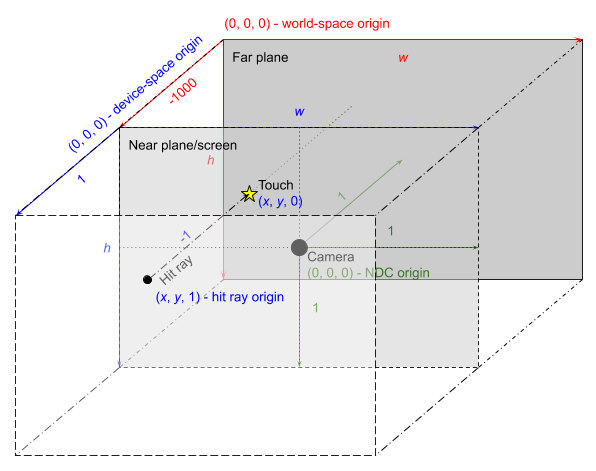
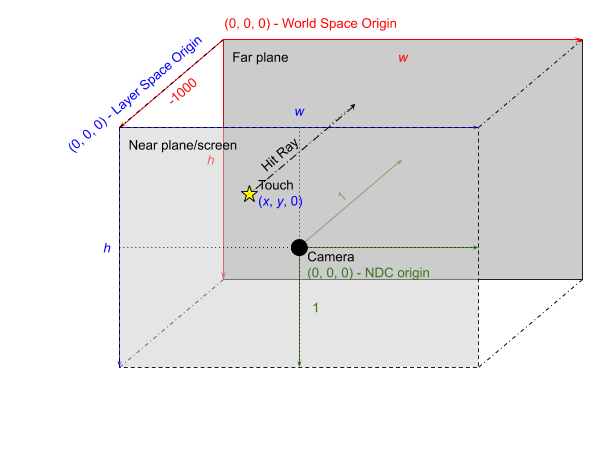
[scenic][docs] Add coordinate space documentation
Commit-Queue: Mikael Pessa <mikaelpessa@google.com>
Testability-Review: Jaeheon Yi <jaeheon@google.com>
Testability-Review: David Worsham <dworsham@google.com>

diff --git a/docs/concepts/graphics/scenic/view_bounds.md b/docs/concepts/graphics/scenic/view_bounds.md
@@ -19,17 +19,31 @@
 
 # Introduction
 
-This is a guide that explains how view bounds and clipping work in Scenic. This guide explains how to set view bounds, how to interpret what the commands are doing, and the effects that the view bounds have on existing Scenic subsystems.
+This is a guide that explains how view bounds and clipping work in Scenic. This
+guide explains how to set view bounds, how to interpret what the commands are
+doing, and the effects that the view bounds have on existing Scenic subsystems.
 
 # Concepts
 
 ## Setting View Bounds {#setting-view-bounds}
 
-An embedder must create a pair of tokens for a view and view holder, and must also allocate space within its view for the embedded view holder to be laid out. This is done by setting the bounds on the view holder of the embedded view. To set the view bounds on a view, you have to call `SetViewProperties` on its respective ViewHolder. You can call `SetViewProperties` either before or after the view itself is created and linked to the ViewHolder, so you do not have to worry about the order in which you do your setup. The bounds themselves are set by specifying their minimum and maximum points (xyz) in 3D space.
+An embedder must create a pair of tokens for a view and view holder, and must
+also allocate space within its view for the embedded view holder to be laid out.
+This is done by setting the bounds on the view holder of the embedded view. To
+set the view bounds on a view, you have to call `SetViewProperties` on its
+respective ViewHolder. You can call `SetViewProperties` either before or after
+the view itself is created and linked to the ViewHolder, so you do not have to
+worry about the order in which you do your setup. The bounds themselves are set
+by specifying their minimum and maximum points (xyz) in 3D space.
 
 ### Bound Extent and Insets {#bound-extent-and-insets}
 
-There are four values needed to set a view's bounds properly, `bounds_min`, `bounds_max`, `inset_min` and `inset_max`. The minimum and maximum bounds represent the minimum and maximum coordinate points of an axis-aligned bounding box. The minimum and maximum insets specify the distances between the view’s bounding box and that of its parent. So the final extent of a view's bounds can be defined with the following formula:
+There are four values needed to set a view's bounds properly, `bounds_min`,
+`bounds_max`, `inset_min` and `inset_max`. The minimum and maximum bounds
+represent the minimum and maximum coordinate points of an axis-aligned bounding
+box. The minimum and maximum insets specify the distances between the view’s
+bounding box and that of its parent. So the final extent of a view's bounds can
+be defined with the following formula:
 
 ```cpp
 { bounds_min + inset_min, bounds_max - inset_max}
@@ -52,13 +66,120 @@ view_holder.SetViewProperties({.bounding_box{.min{0, 0, -200}, .max{500, 500, 0}
                                .inset_from_max{20, 30, 0}});
 ```
 
-The above code creates a View and ViewHolder pair whose bounds start at (20,&nbsp;30,&nbsp;-200) and extend out to (480,&nbsp;470,&nbsp;0). The bounds themselves are always axis-aligned.
+The above code creates a View and ViewHolder pair whose bounds start at `(20,
+30, -200)` and extend out to `(480, 470, 0)`. The bounds themselves are always
+axis-aligned.
 
 ## Coordinate System {#coordinate-system}
 
-View bounds are specified in local coordinates, and their world-space position is determined by the global transform of the view node.
+The 3D system of Scenic consists of a number of coordinate spaces. They can
+roughly be categorized as: Layer Space, World Space and Local space. A spatial
+point has independent coordinates in each coordinate system. A transformation
+matrix describes how to map a spatial point between two coordinate spaces; the
+point's coordinates in system A is multipled by a transformation matrix to
+obtain its coordinates in system B (or the matrix's inverse for the opposite
+direction).
 
-Input coordinates originate from input device space, which usually corresponds to pixel coordinates with an origin at the upper left of the screen. The input system works with the compositor and camera to map from input device coordinates to world space by way of [Ray Casting and Hit Testing](#ray-casting-and-hit-testing).
+All Scenic coordinate systems are right handed.
+
+![Coordinate Spaces Diagram](meta/coordinate_spaces.svg)
+
+#### Layer Space (Screen Space)
+
+Layer Space is a 2D coordinate space corresponding to an area on the screen. 
+- Origin: Top left corner, X-axis pointing to the right and Y-axis pointing down. Axis-aligned 
+    with display. 
+- Dimensions: Typically equal to the display dimensions (a full screen layer).
+
+#### Camera Transform
+
+The camera transform matrix transforms a coordinate from World Space to Layer
+Space.
+
+This transformation actually consists of a few steps.
+
+First we transform from World Space to an intermediate space known as Camera
+Space. This is a normalized three dimensional coordinate system from -1 to 1 in
+every direction. This coordinate system is right handed, with the X-axis
+pointing to the right, Y-axis pointing down and Z-axis pointing “into the
+screen”. The camera's location and direction in World Space define the
+transform.
+
+Next the projection transformation matrix decides how to flatten the Camera
+Space into the two dimensional space of Layer Space. This transformation
+dictates the type of projection to perform: either orthographic or perspective
+projection. The common choice is orthographic, in which the world is essentially
+flattened in the Z-direction while maintaining the X- and Y-axes.
+
+Finally, a clip space transform might be applied that scales and translates the
+2D space in order to enable magnification.[^1]
+
+[^1]: A better solution for handling magnification would have been to simply insert a scale node into the graph and then manipulate that directly. This approach caused some issues with applications being confused about how big they are and how much memory they should allocate (because metrics events are issued with scaling), and the clip space transform was introduced as a workaround. And because input is currently handled in camera space, this comes with the unfortunate side effect that swipe gestures can appear smaller under magnification.
+
+#### World Space
+
+World Space is where the Scene Graph's root view is positioned, and also where
+the camera is positioned. The entire Scene Graph is thus embedded in this space,
+and how we relate Camera Space to the scene is defined in this space.
+
+#### Transform Nodes
+
+Each node in the Scene Graph has a Local Space associated with it. This space is
+defined by that node's transformation matrix, which transforms a coordinate from
+the node's Local Space to the Local Space of its parent. This matrix is
+dependent on the position, rotation and scale of the node as defined by its
+parent.
+
+The Local Space of each node can be related to World Space by multiplying every
+transform matrix up the Scene Graph, terminating at the Scene Graph's root
+(whose transformation matrix is the transform from the root's Local Space to
+World Space). This multiplied matrix is known as the node's "global transform".
+
+The transform matrix of a node is the combination of the translation, scale and
+rotation of that node. Application order is scale, then rotation, then
+translation. Because each of these values can be written as their own
+transformation matrices, and the order of multiplication for matrices matter, we
+can then write the full transform as:
+
+```
+parent_local_point = translation matrix * rotation_matrix * scale_matrix * local_point
+```
+
+### Example
+
+We have a Scene Graph made up of two nodes, Node1 and Node2.
+Node1 is a child of Node2, and P1 is a point in Node1's Local Space,
+Node1 and Node2 both have a rotation, scale and translation.
+To get the World Space coordinates of P1 you then combine, in order, the transforms of all parents:
+```
+p1_world_position = (translation_node2 * rotation_node2 * scale_node2) * (translation_node1 * rotation_node1 * scale_node1) * p1_local_position
+```
+
+#### Local Space (Scenic View Space) [^2]
+
+Since not every Session has full knowledge of the full Scene Graph they instead
+all act in the local coordinate space of their View. This is the space a Session
+defines the transforms of its nodes in and the space that input coordinates are
+delivered in.
+
+-   Origin: "Back corner" of View. The Z dimension of the View is usually set up
+    as -1000 to 0 (as a side effect of starting out as a left handed coordinate
+    system which only later became right handed), so the View's origin is at the
+    maximal Z value, but at minimal X and Y values. Usually axis-aligned with
+    world space.
+
+[^2]: Not to be confused with the View Space from the common Model-View-Projection notation of 3D graphics, which we here called Camera Space.
+
+### View Bounds
+
+View bounds are specified in local coordinates, and their World Space position
+is determined by the global transform of the view node.
+
+Input coordinates originate from Layer Space, which usually corresponds to pixel
+coordinates with an origin at the upper left of the screen. The input system
+works with the compositor and camera to map from input device coordinates to
+World Space by way of
+[Ray Casting and Hit Testing](#ray-casting-and-hit-testing).
 
 ### Example {#example-2}
 
@@ -77,17 +198,30 @@ view_holder.SetTranslation(100, 100, 200);
 view_holder.SetViewProperties({.bounding_box{.max{500, 500, 200}}});
 ```
 
-In the above code, the view bounds in local space have a min and max value of (0,&nbsp;0,&nbsp;0) and (500,&nbsp;500,&nbsp;200), but since the parent node is translated by (100,&nbsp;100,&nbsp;200) the view bounds in world space will actually have a world space bounds min and max of (100,&nbsp;100,&nbsp;200) and (600,&nbsp;600,&nbsp;400) respectively. However, the view itself doesn’t see these world-space bounds, and only deals with its bounds in its own local space.
+In the above code, the view bounds in Local Space have a min and max value of
+`(0, 0, 0)` and `(500, 500, 200)`, but since the parent node is translated by
+`(100, 100, 200)` the view bounds in World Space will actually have a World
+Space bounds min and max of `(100, 100, 200)` and `(600, 600, 400)`
+respectively. However, the view itself doesn’t see these world-space bounds, and
+only deals with its bounds in its own Local Space.
 
 ## Centering Geometry {#centering-geometry}
 
-The center of mass for a piece of geometry such as a `RoundedRectangle` is its center, whereas for a view, the center of mass for its bounds is its minimum coordinate. This means that if a view and a rounded-rectangle that is a child of that view both have the same translation, the center of the rounded-rectangle will render at the minimum-coordinate of the view’s bounds. To fix this, apply another translation on the shape node to move it to the center of the view’s bounds.
+The center of mass for a piece of geometry such as a `RoundedRectangle` is its
+center, whereas for a view, the center of mass for its bounds is its minimum
+coordinate. This means that if a view and a rounded-rectangle that is a child of
+that view both have the same translation, the center of the rounded-rectangle
+will render at the minimum-coordinate of the view’s bounds. To fix this, apply
+another translation on the shape node to move it to the center of the view’s
+bounds.
 
 ![Centering Geometry Diagram](meta/scenic_centering_geometry.png)
 
 ## Debug Wireframe Rendering {#debug-wireframe-rendering}
 
-To help with debugging view bounds, you can render the edges of the bounds in wire-frame mode to see where exactly your view is located in world space. This functionality can be applied per-view using a Scenic command:
+To help with debugging view bounds, you can render the edges of the bounds in
+wire-frame mode to see where exactly your view is located in World Space. This
+functionality can be applied per-view using a Scenic command:
 
 ```cpp
 // This command turns on wireframe rendering of the specified
@@ -98,7 +232,10 @@ struct SetEnableDebugViewBoundsCmd {
 };
 ```
 
-This command takes in a `view id`, and a `bool` to toggle whether or not the view bounds should be displayed. The default display color is white, but you can choose different colors by running the `SetViewHolderBoundsColorCmd` on the specified view holder:
+This command takes in a `view id`, and a `bool` to toggle whether or not the
+view bounds should be displayed. The default display color is white, but you can
+choose different colors by running the `SetViewHolderBoundsColorCmd` on the
+specified view holder:
 
 ```cpp
 // This command determines the color to be set on a view holder’s debug
@@ -111,48 +248,88 @@ struct SetViewHolderBoundsColorCmd {
 
 ## Ray Casting and Hit Testing {#ray-casting-and-hit-testing}
 
-Hit testing by ray casting maps input device coordinates to scene geometry and coordinates. Ultimately, inputs are delivered to views with view coordinates. As described in the [Coordinate System](#coordinate-system) section, view coordinates are determined by the global transform of the view node, which maps from world space to view coordinates.
+Hit testing by ray casting maps Layer Space coordinates to scene geometry and
+coordinates. Ultimately, inputs are delivered to views with View-local
+coordinates. As described in the [Coordinate System](#coordinate-system)
+section, View-local coordinates are determined by the global transform of the
+View node, which maps from World Space to Local Space.
 
 ### The Hit Ray {#the-hit-ray}
 
-The conversion from input device space to world space involves the input system, compositor layer, and camera.
+When injecting touch input events we need to know two things: 1. Which client(s)
+are we sending the input event to? 2. What is the coordinate of the input event
+in the client’s local coordinate system?
+
+The conversion of input coordinates from Layer Space to World Space involves the
+input system, compositor layer, and camera.
 
 ![Input Coordinate Spaces](meta/input_coordinate_spaces.png)
 
-The original input coordinate is a two-dimensional coordinate in screen pixels. The input system and compositor agree on a convention, illustrated above as device coordinates in 3 dimensions (blue), where the viewing volume has depth 1, the near plane is at z = 0, and the far plane is at z = -1. With this in mind, the input system constructs a hit ray with its origin at the touch coordinates at a distance of 1 behind the camera, z = 1, and direction (0,&nbsp;0,&nbsp;-1), towards the scene.
+To find which client we are sending the event to we perform a hit test. This is
+done by projecting a ray (in World Space) into the scene to see what objects it
+intersects and then sending the input to the closest hit object. When we hit
+something we note where in the scene that hit point is. We then compute the
+World Space to Local Space transform of the owning view of the hit object, and
+use that to send the input event to the client in their local coordinates.
 
-The input device space as described here is a left-handed coordinate system, a holdover from when Scenic was left-handed. Future work may adjust the z convention of input device space to match NDC or the viewing volume, as a right-handed coordinate system, and adjust the hit ray to originate at the near plane, z = 0.
+The original input coordinate is a two-dimensional coordinate in screen pixels.
+The input system and compositor agree on a convention, illustrated above as
+device coordinates in 3 dimensions (blue), where the viewing volume has depth 1,
+the near plane is at z = 0, and the far plane is at z = -1. With this in mind,
+the input system constructs a hit ray by computing the World Space coordinates
+of the touch coordinate (by inverting the camera transform), sets those as the
+origin, with Z at 0 and direction `(0, 0, 1)`, towards the scene.
 
-The compositor layer transforms this ray into NDC (green) and then applies the inverse camera transforms (clip-space, projection, and camera positioning) to project the ray into the scene (world coordinates, red). The above illustration reflects the orthographic camera coded into Scenic, with scene origin at the upper left of the far plane, viewing volume width and height reflecting device dimensions, and viewing depth 1000, such that the near plane is at z = -1000. (In actuality, the orthographic camera itself is positioned at z = -1010, but this does not affect the math in an orthographic projection.)
-
-In world space then, the hit ray described above originates at (_x_,&nbsp;_y_,&nbsp;-2000) with direction (0,&nbsp;0,&nbsp;1000).
+In World Space then, the hit ray described above originates at `(x, y, -1000)`
+with direction `(0, 0, 1000)`.
 
 ### Rules {#rules}
 
-When performing hit tests, Scenic runs tests against the bounds of a `ViewNode` before determining whether the ray should continue checking children of that node.
+When performing hit tests, Scenic runs tests against the bounds of a `ViewNode`
+before determining whether the ray should continue checking children of that
+node.
 
-* If a ray completely misses a view’s bounding box, nothing that is a child of that   view will be hit.
+*   If a ray completely misses a view’s bounding box, nothing that is a child of
+    that view will be hit.
 
-* If a ray does intersect a bounding box, only geometry that exists within the range of the ray’s entrance and exit from the bounding box will be considered for a hit. For example, clipped geometry cannot be hit.
+*   If a ray does intersect a bounding box, only geometry that exists within the
+    range of the ray’s entrance and exit from the bounding box will be
+    considered for a hit. For example, clipped geometry cannot be hit.
 
-If you forget to set the bounds for a view, any geometry that exists as a child of that view cannot be hit. This is because the bounds would be null and therefore infinitely small, which also means that there would be no geometry rendered to the screen.
+If you forget to set the bounds for a view, any geometry that exists as a child
+of that view cannot be hit. This is because the bounds would be null and
+therefore infinitely small, which also means that there would be no geometry
+rendered to the screen.
 
-In debug mode, a null bounding box will trigger an `FXL_DCHECK` in the `escher::BoundingBox` class stating that the bounding box dimensions need to be greater than or equal to 2.
+In debug mode, a null bounding box will trigger an `FXL_DCHECK` in the
+`escher::BoundingBox` class stating that the bounding box dimensions need to be
+greater than or equal to 2.
 
 ### Edge Cases {#edge-cases}
 
- Situations where a ray is perpendicular to a side of a bounding box and just grazes its edge will not count as a hit. Since the six planes that constitute the bounding box are themselves the clip planes, it follows that anything that is directly on a clip plane would also get clipped.
+Situations where a ray is perpendicular to a side of a bounding box and just
+grazes its edge will not count as a hit. Since the six planes that constitute
+the bounding box are themselves the clip planes, it follows that anything that
+is directly on a clip plane would also get clipped.
 
 ### Collisions {#collisions}
 
-A collision occurs when a ray cast detects two or more hits at the same distance. A collision indicates that hittable targets are overlapping and occupying the same position in the scene. This is considered incorrect behavior and Scenic does not provide hit test ordering guarantees in case of collisions. The client must prevent collisions.
+A collision occurs when a ray cast detects two or more hits at the same
+distance. A collision indicates that hittable targets are overlapping and
+occupying the same position in the scene. This is considered incorrect behavior
+and Scenic does not provide hit test ordering guarantees in case of collisions.
+The client must prevent collisions.
 
 There are two ways collisions can occur:
 
-* Collision between nodes in the same view. The owning view must ensure the proper placement of elements within a view.
+*   Collision between nodes in the same view. The owning view must ensure the
+    proper placement of elements within a view.
 
-* Collision between nodes in separate views. The parent view must prevent any intersection between the clip bounds of its children.
+*   Collision between nodes in separate views. The parent view must prevent any
+    intersection between the clip bounds of its children.
 
-It is also best practice to follow these rules to avoid Z-fighting for visual content.
+It is also best practice to follow these rules to avoid Z-fighting for visual
+content.
 
-When a collision is detected, a warning is logged of the colliding nodes by session id and resource id.
+When a collision is detected, a warning is logged of the colliding nodes by
+session id and resource id.
